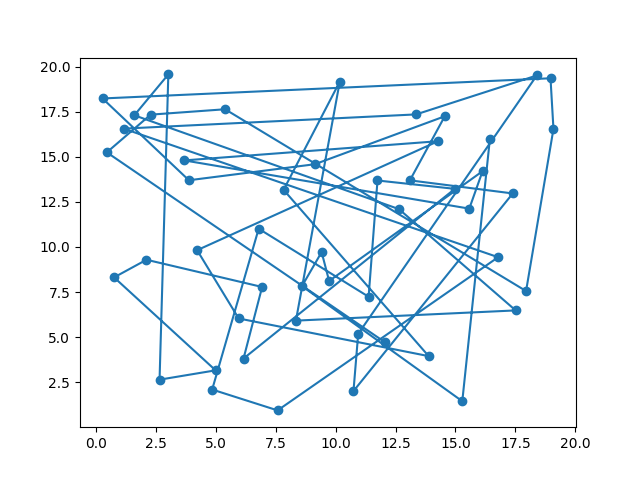
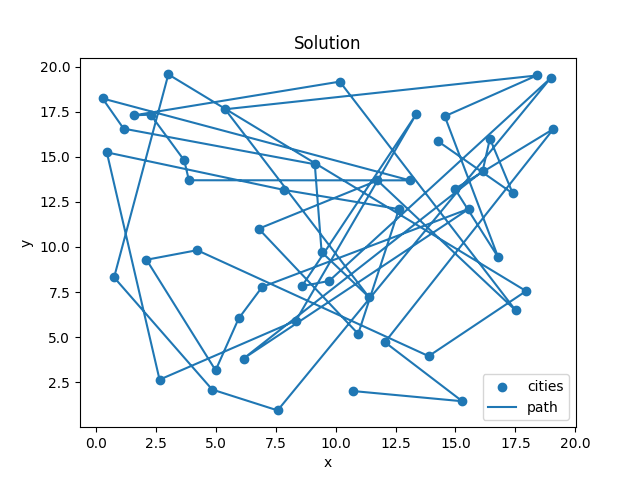
results generations of 200

diff --git a/ex5_4.py b/ex5_4.py
@@ -133,16 +133,24 @@ def best_solution(generation, coords):
 def plot_solution(solution, coords):
     fig = plt.figure()
     coords_path = coords[solution, :]
-    plt.scatter(coords[:, 0], coords[:, 1])
-    plt.plot(coords_path[:, 0], coords_path[:, 1])
+    plt.scatter(coords[:, 0], coords[:, 1], label="cities")
+    plt.plot(coords_path[:, 0], coords_path[:, 1], label="path")
+    plt.title("Solution")
+    plt.xlabel("x")
+    plt.ylabel("y")
+    plt.legend()
     return fig
 
 
 coords = read_coords(file_reader)
 best_fitnesses, mean_fitnesses, generation = evolutionary_loop(coords, 1500)
 fig = plt.figure()
-plt.plot(best_fitnesses)
-plt.plot(mean_fitnesses)
+plt.plot(best_fitnesses, label="best fitness")
+plt.plot(mean_fitnesses, label="mean fitness")
+plt.title("Fitness over generations")
+plt.xlabel("Generation")
+plt.ylabel("Fitness")
+plt.legend()
 plt.savefig("fitness.png")
 plt.show()
 
